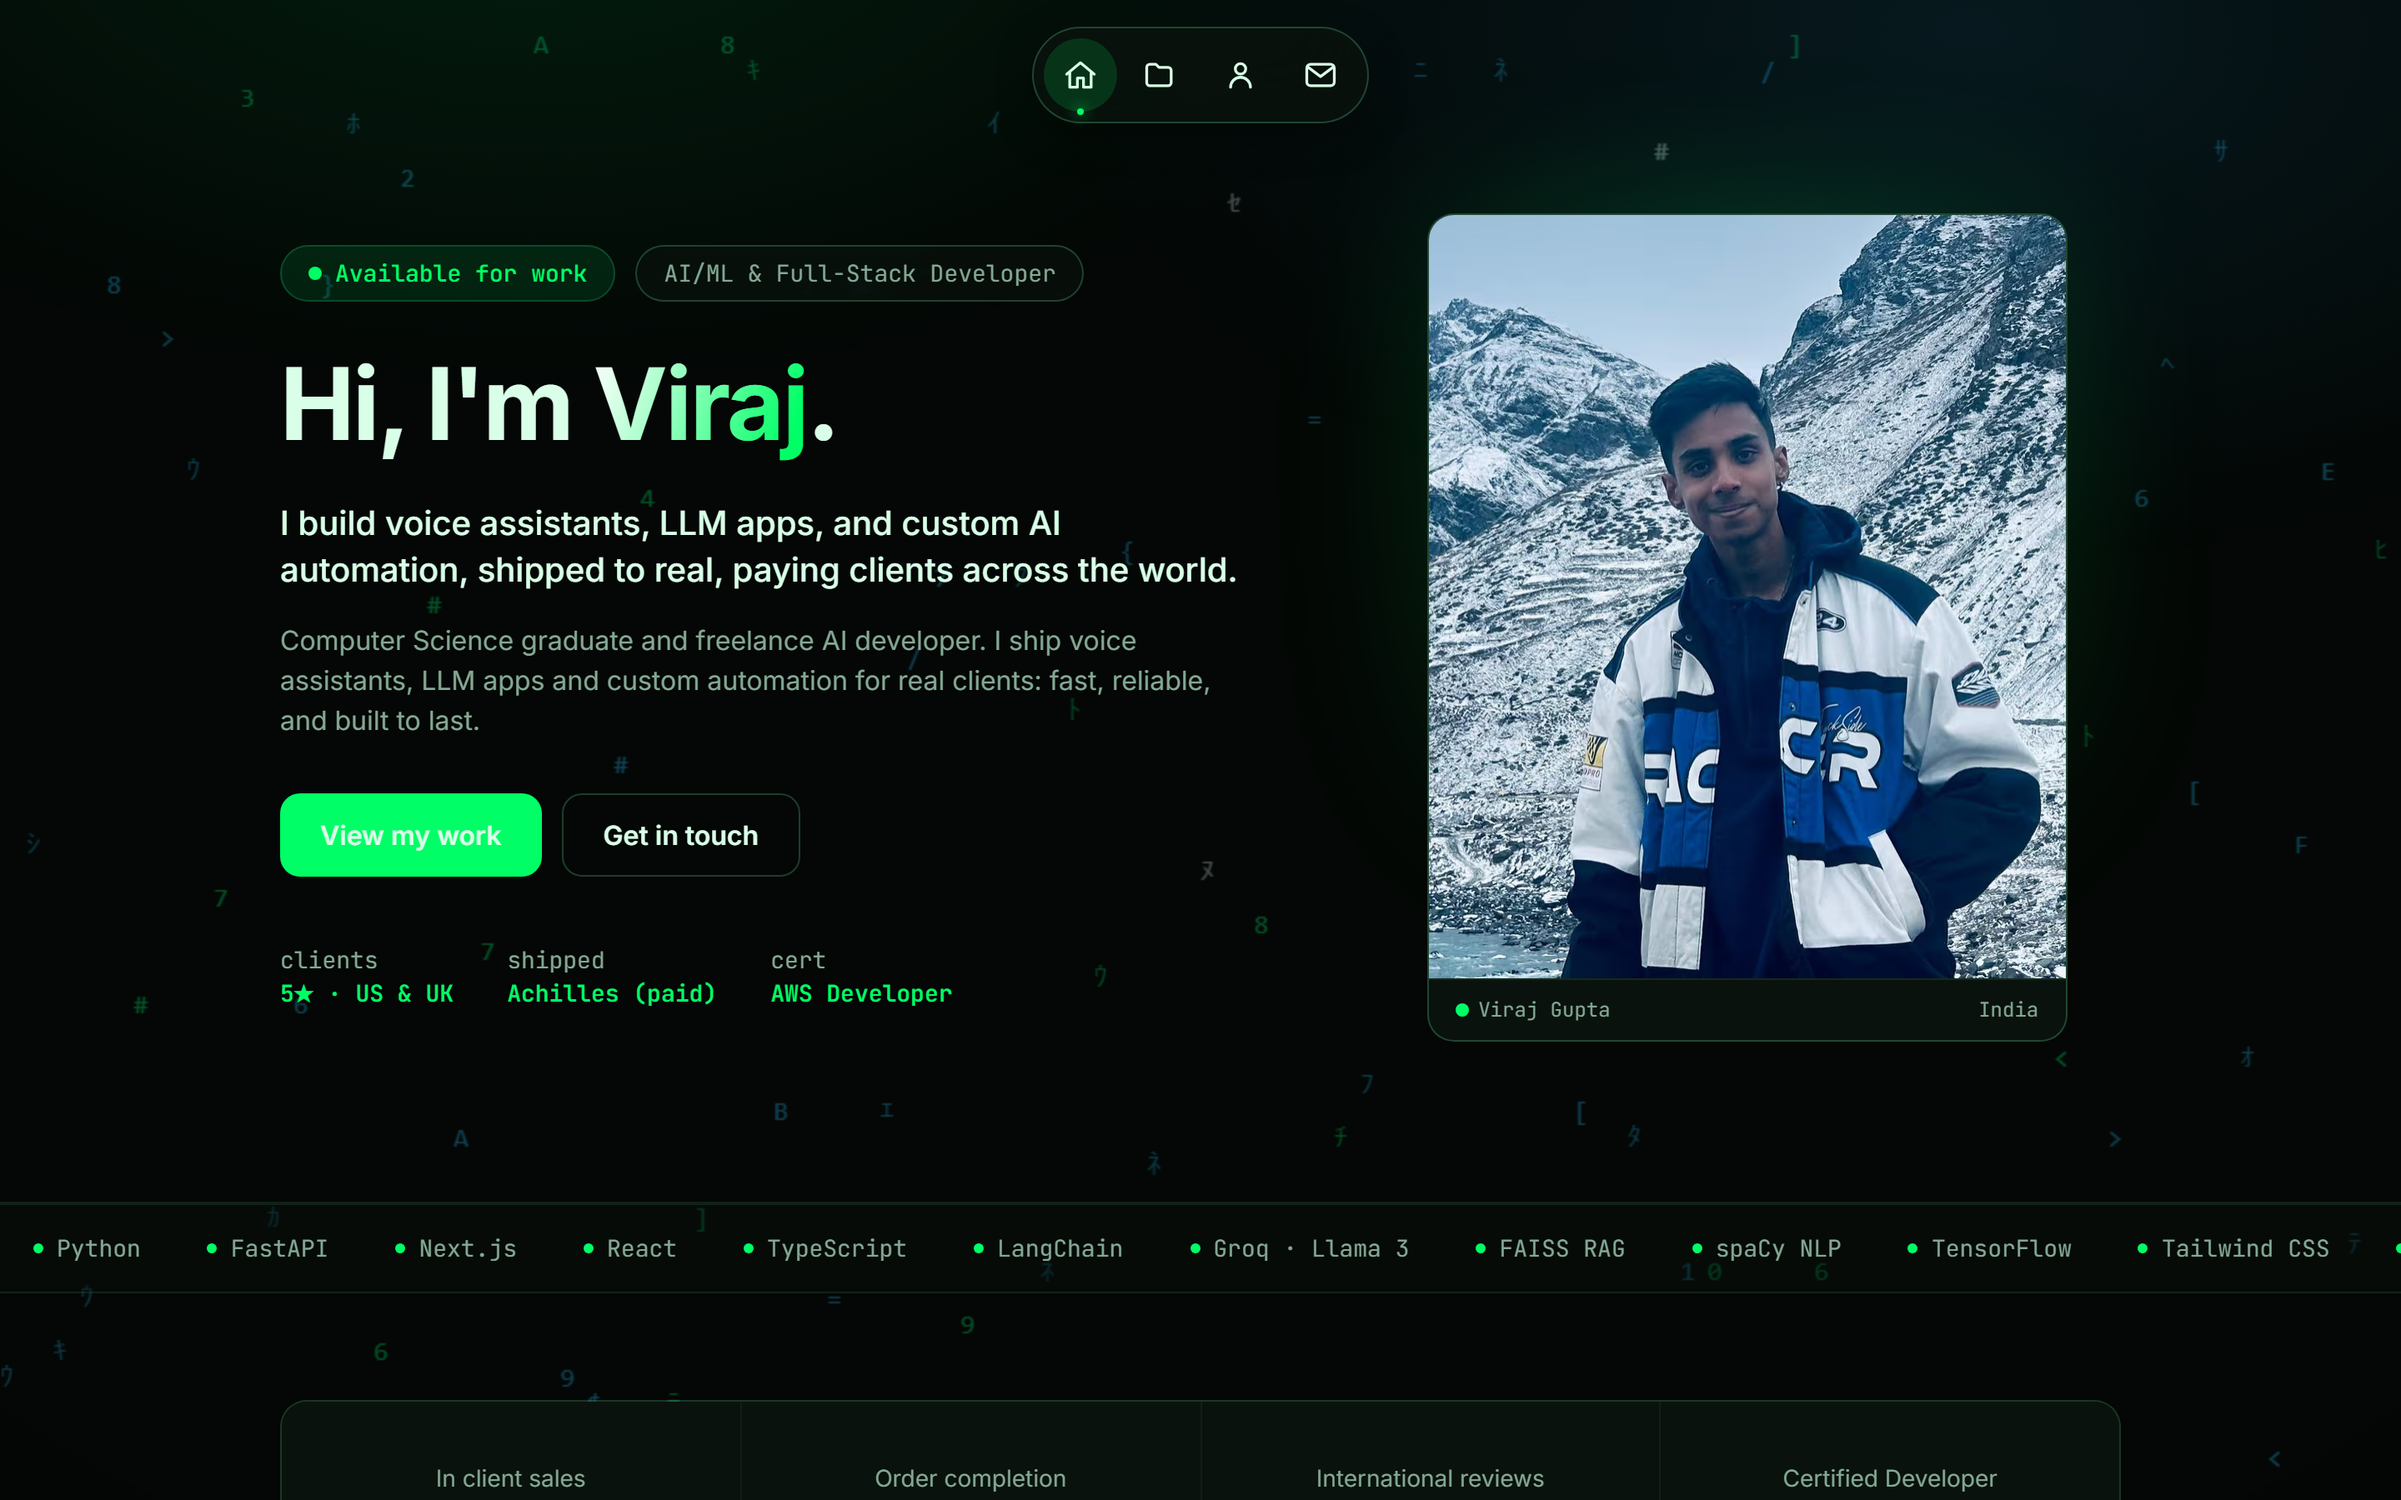
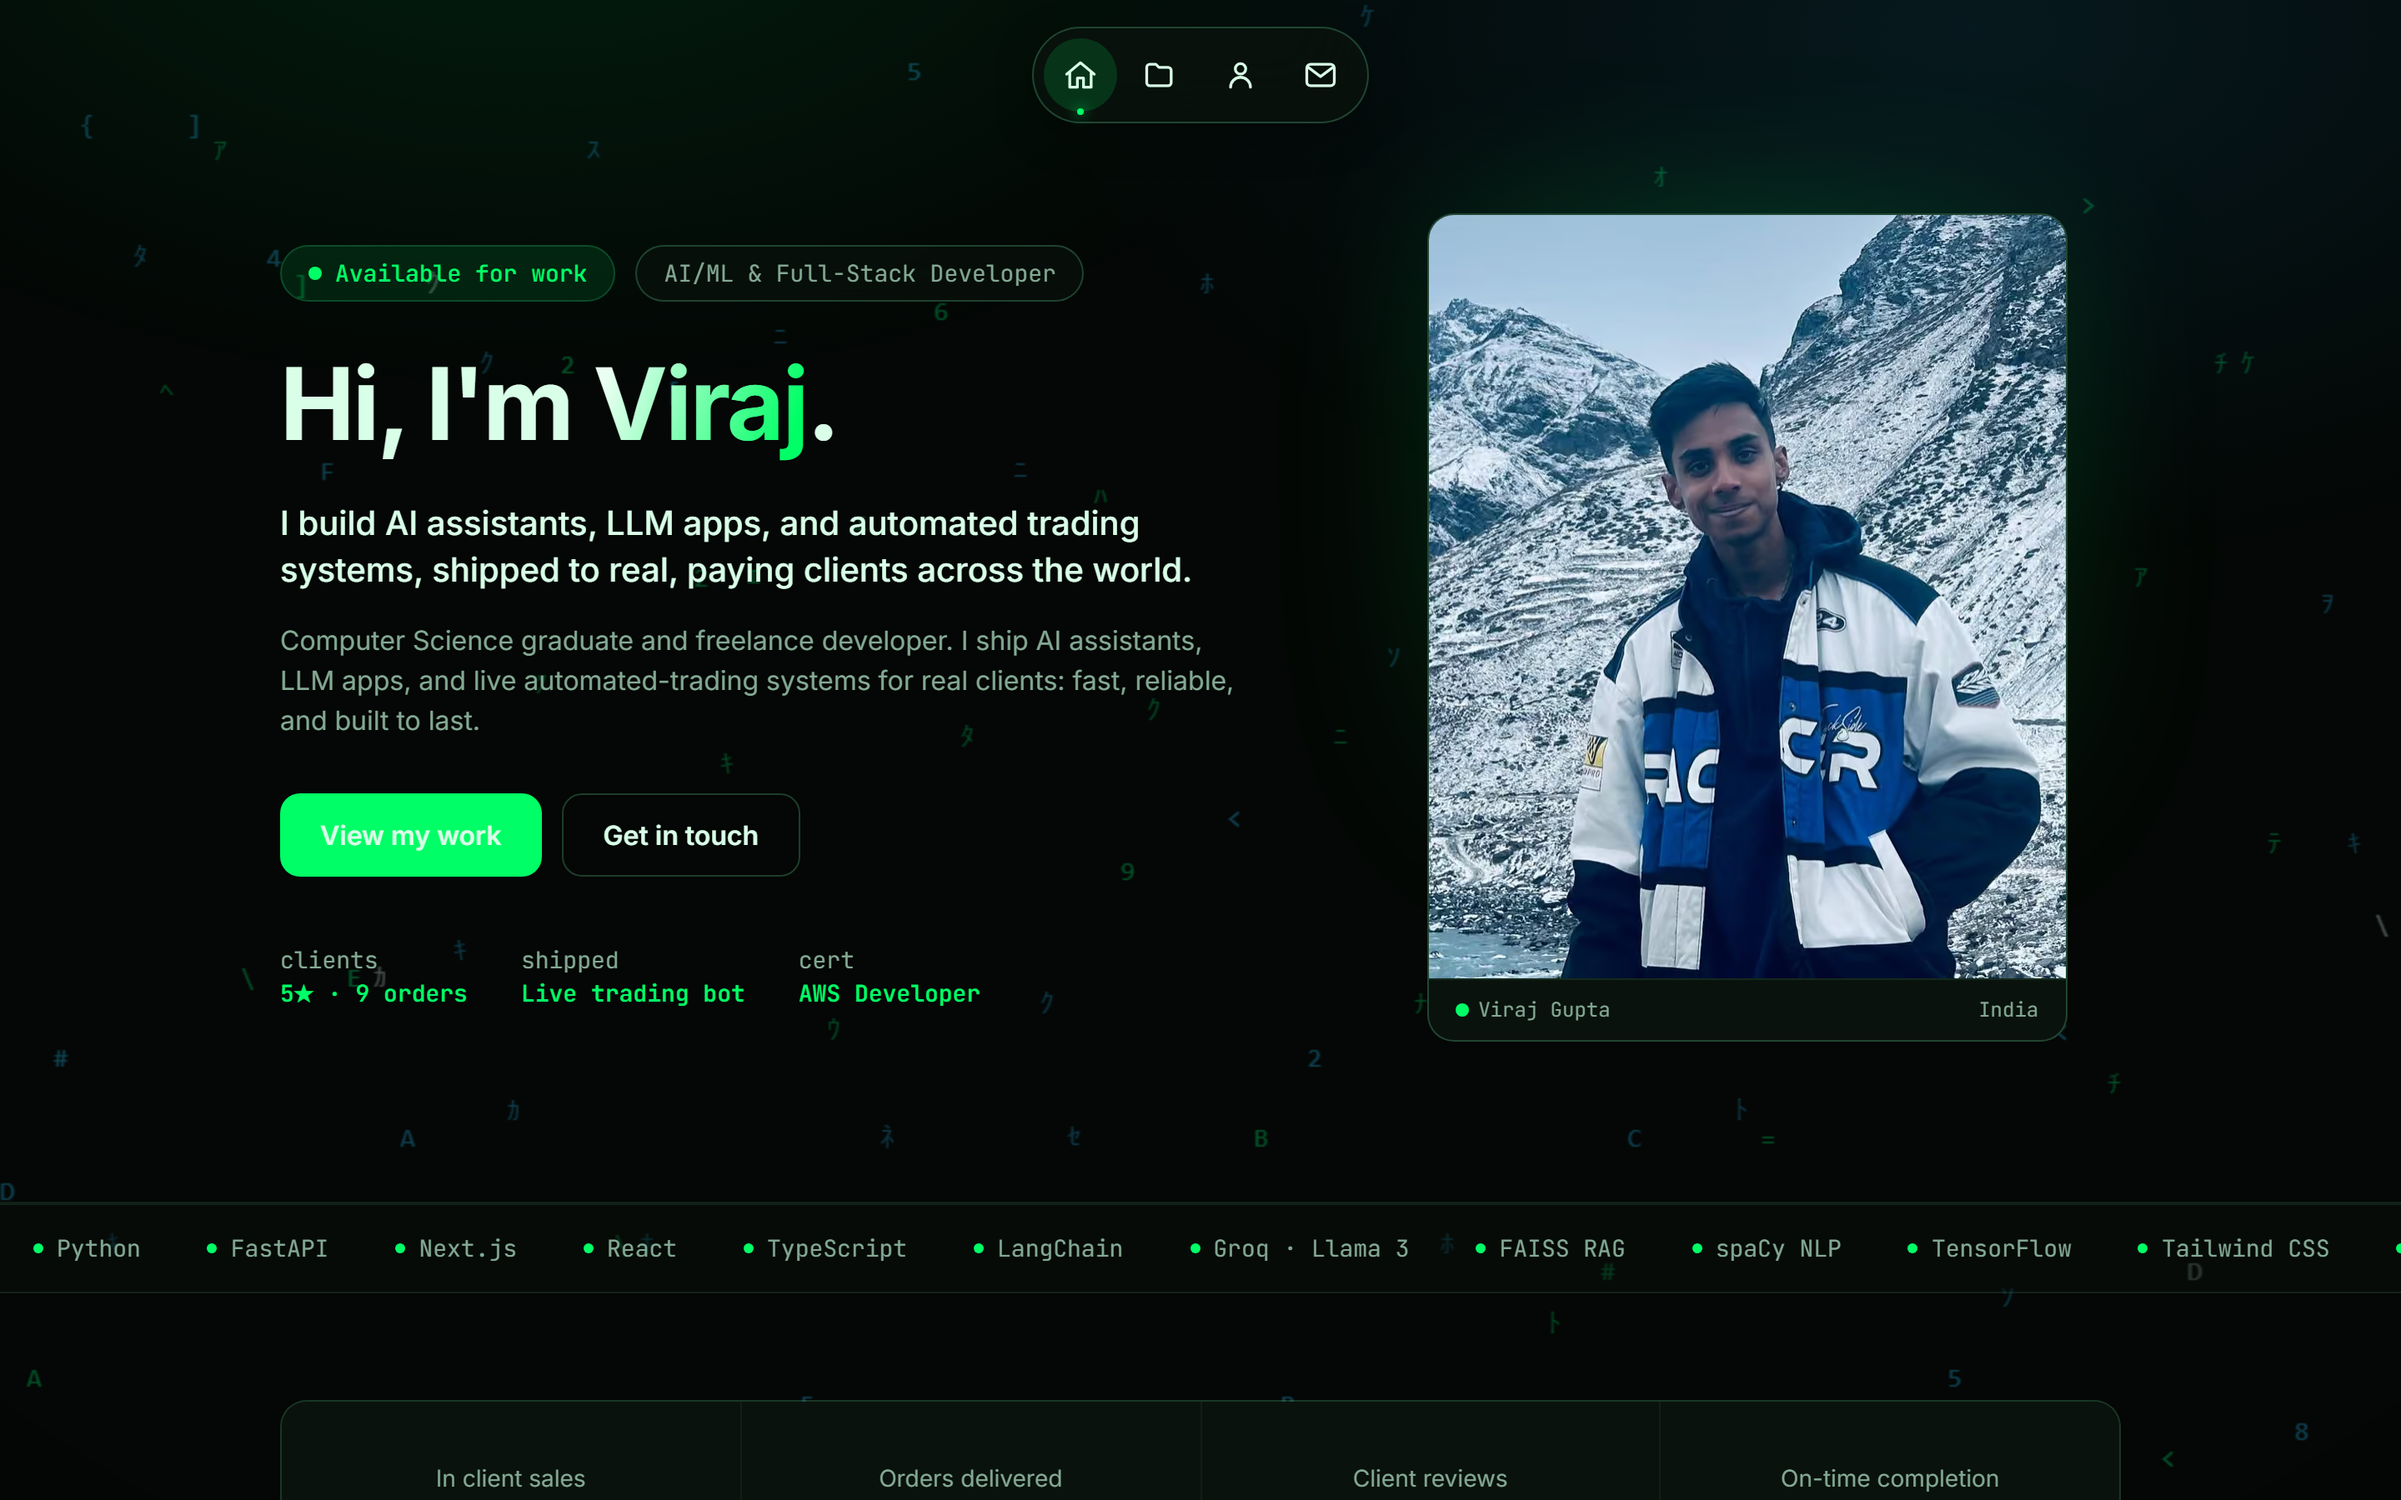
tweak: front page shows Trading Bot, Achilles PRO, voice Achilles
Unfeature Strategy Backtesting Engine (still on /projects) so the featured
voice Achilles moves into the home top-3. Update featured heading copy.

diff --git a/app/page.tsx b/app/page.tsx
@@ -32,7 +32,7 @@ export default function Home() {
             id="featured-heading"
             eyebrow="Selected work"
             title="Featured projects"
-            description="A live automated-trading system: execution bot, real-time control dashboard, and a strategy-backtesting engine, all built for a paying client."
+            description="A live automated-trading system (execution bot and real-time control dashboard) and a shipped white-label voice assistant, all built for paying clients."
           />
           <Link
             href="/projects"

diff --git a/content/projects.ts b/content/projects.ts
@@ -182,7 +182,7 @@ export const projects: Project[] = [
       { label: "Significance", value: "t-stats" },
       { label: "Output", value: "PDF reports" },
     ],
-    featured: true,
+    featured: false,
     caseStudy: {
       problem:
         "Strategies that look great on a chart often have no real edge. The client needed to know whether a strategy would actually hold up before risking money, not a hyped in-sample result.",
